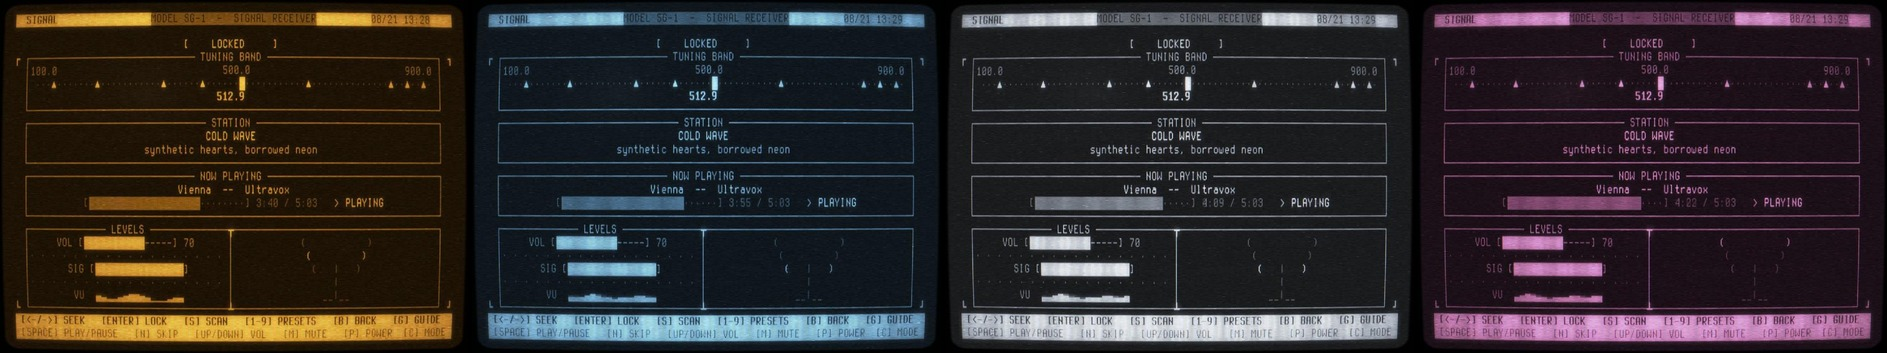
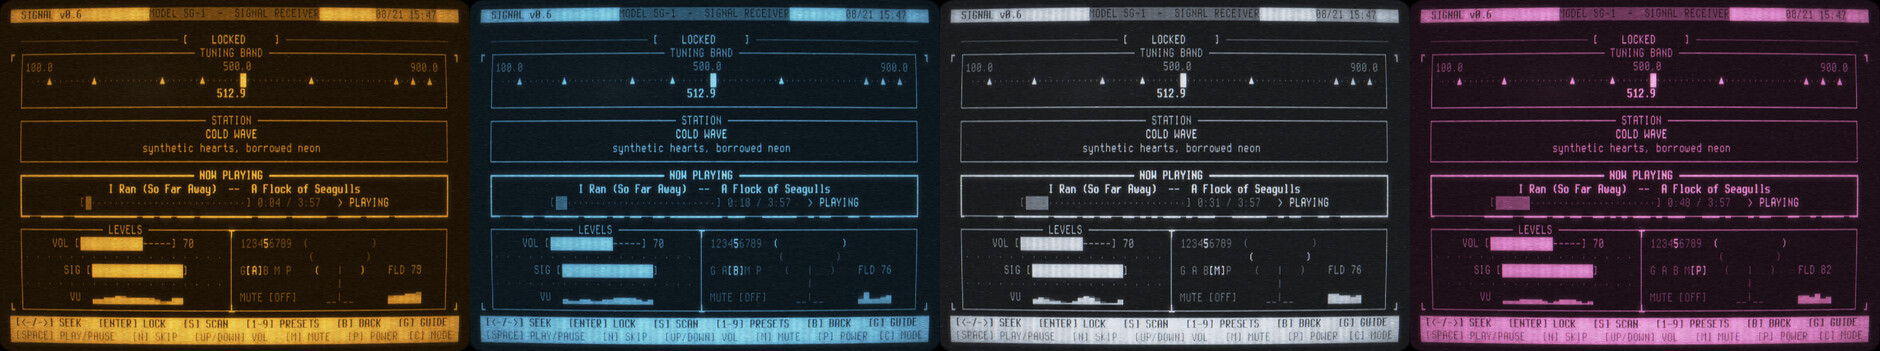
v0.6: correct version tag style, sync guide version string, refresh screenshots and README

Changed region(s): [[0.0, 0.0, 1.0, 1.0], [0.0, 0.7407, 0.1543, 0.7977]]

diff --git a/program.js b/program.js
@@ -2427,7 +2427,12 @@ export default {
     // just tell people up front so an ad reads as expected rather than as
     // SIGNAL being broken.
     put(19, "Playback is real YouTube video -- ads may play without Premium", FAINT)
-    put(20, 'SIGNAL v0.5', FAINT)
+    // 28th pass: was hardcoded 'SIGNAL v0.5' -- a second, separate version
+    // string that had drifted out of sync with the title bar (which was
+    // last bumped at some earlier pass without this one following). Now
+    // driven off the same VERSION_TAG the title bar uses, so the two can't
+    // drift apart again.
+    put(20, `SIGNAL ${VERSION_TAG}`, FAINT)
     put(22, '[->] STATIONS        [any other key] CLOSE', FAINT)
   },
   // Station reference table -- freq/name/tagline/artists-like, one entry

diff --git a/README.md b/README.md
@@ -1,4 +1,4 @@
-# SIGNAL
+# SIGNAL v0.6
 
 A community-facing, unofficial internet-radio-style web toy: a terminal/CRT
 tuning-dial receiver with 9 curated stations, real songs, station idents,
@@ -74,7 +74,7 @@ touch alone. Known gaps, not oversights.
 
 ## Stations
 
-9 stations, 15 tracks each (135 total). Full roster with taglines and track lists:
+9 stations, 145 tracks total (most run 15, CIPHER runs 25). Full roster with taglines and track lists:
 [`channels.md`](./channels.md) — generated straight from the live
 `CHANNELS` array in `program.js` (`tools/channels-to-md.js`), so it can't
 drift from the actual source of truth. Re-run it after editing the station
@@ -98,7 +98,9 @@ isn't just an internal annoyance anymore.
 - **Station count:** 9 is the agreed ceiling for now — matches the `1`-`9`
   preset keys cleanly, no spillover digit needed. A 10th station briefly
   existed bound to `0`; if the roster grows past 9 again, decide the preset
-  scheme deliberately rather than defaulting back to that.
+  scheme deliberately rather than defaulting back to that. RELIC SIGNAL was
+  retired in v0.6 and CIPHER moved into its frequency slot, keeping the
+  count at 9.
 - **Dead videos:** the player now auto-skips on any playback error (private,
   removed, region-locked, etc.) instead of going silent mid-song — same
   behavior as pressing `[N]` manually. It doesn't retry the same ID or flag
